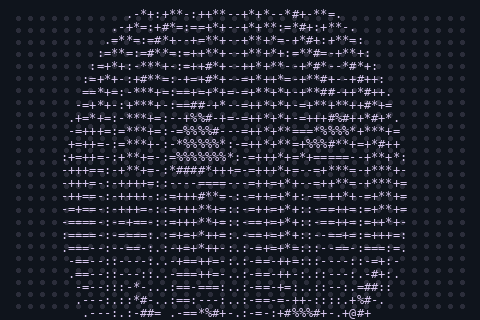
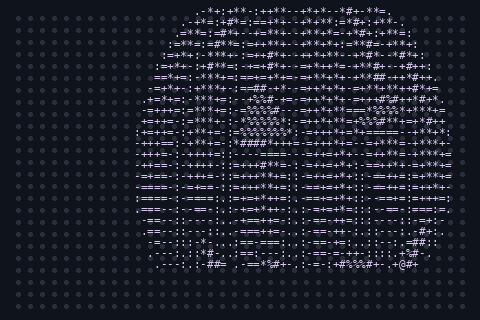
readme: svg strip panel, clay step images, no captions or filler

diff --git a/assets/make_strips.py b/assets/make_strips.py
@@ -77,8 +77,9 @@ def right_panel():
     img = Image.new("RGB", (W, H), NAVY)
     d = ImageDraw.Draw(img)
     font = ImageFont.truetype(
-        "/usr/share/fonts/truetype/dejavu/DejaVuSansMono.ttf", 12)
-    d.multiline_text((10, 6), txt, font=font, fill=LAV, spacing=1)
+        "/usr/share/fonts/truetype/dejavu/DejaVuSansMono.ttf", 11)
+    tw = d.textlength(txt.splitlines()[0], font=font)
+    d.multiline_text(((W - tw) / 2, 4), txt, font=font, fill=LAV, spacing=0)
     img = ben_day(img.convert("RGBA")).convert("RGB")
     out = os.path.join(HERE, "strip-ascii-480x320.webp")
     img.save(out, "WEBP", lossless=True, method=6)

diff --git a/readme.md b/readme.md
@@ -7,19 +7,14 @@ the rind with booleans and line the holes with glowing flesh, shade
 it flat-orange with shader nodes, trace it with grease pencil ink,
 then open the render in photocraft for vibrance, warmth, and a
 candlelit glow. six steps, two tracks per step (by hand in the
-interface, or in annotated python). this page is the map —
-[the tutorial](tutorial/tutorial.md) is the walk.
+interface, or in annotated python), full instructions in
+[the tutorial](tutorial/tutorial.md).
 
 <table>
   <tr>
-    <td width="33%"><img src="assets/strip-render-480x320.webp" width="100%" alt="graded render"></td>
+    <td width="33%"><img src="assets/pumpkin-flicker.svg" width="100%" alt="hand-drawn flickering pumpkin"></td>
     <td width="33%"><img src="assets/pumpkin-turntable-480x320.webp" width="100%" alt="pumpkin turning"></td>
     <td width="33%"><img src="assets/strip-ascii-480x320.webp" width="100%" alt="ascii pumpkin"></td>
-  </tr>
-  <tr>
-    <td align="center">the render, graded</td>
-    <td align="center">the model, turning</td>
-    <td align="center">the same, as text</td>
   </tr>
 </table>
 
@@ -33,38 +28,39 @@ interface, or in annotated python). this page is the map —
 
 <table>
   <tr>
-    <td width="180"><img src="tutorial/examples/01-body.png" width="170" alt="body"></td>
+    <td width="180"><img src="tutorial/examples/step-1-body.png" width="170" alt="body, clay render"></td>
     <td><b>1 · ribbed body</b> — start from a uv sphere, scale it squat, sink every other edge loop to carve 15 grooves, then solidify so the rind has real thickness. in code the same shape is one polar grid, and each vertex remembers whether it sits in a groove — step 4 shades with that memory.<br>
     <a href="tutorial/tutorial.md">tutorial step 1</a> · <a href="tutorial/examples/01-body.blend">example .blend</a></td>
   </tr>
   <tr>
-    <td><img src="tutorial/examples/02-stem.png" width="170" alt="stem"></td>
+    <td><img src="tutorial/examples/step-2-stem.png" width="170" alt="stem, clay render"></td>
     <td><b>2 · stem, twig, leaves</b> — draw a bezier hook, bevel it thick at the base and thin at the tip, ridge it like bark, leave the end open with a dark disc inside so it reads snapped. a thin twig and four leaves lying flat finish it.<br>
     <a href="tutorial/tutorial.md">tutorial step 2</a> · <a href="tutorial/examples/02-stem.blend">example .blend</a></td>
   </tr>
   <tr>
-    <td><img src="tutorial/examples/03-carved-face.png" width="170" alt="carved face"></td>
+    <td><img src="tutorial/examples/step-3-face.png" width="170" alt="carved face, clay render"></td>
     <td><b>3 · carve the face</b> — shape two triangles and a zigzag grin as flat cutters, boolean-difference them through the rind, then build a pale funnel inside each hole capped with amber emission. one small light placed inside the body sells the candle.<br>
     <a href="tutorial/tutorial.md">tutorial step 3</a> · <a href="tutorial/examples/03-carved-face.blend">example .blend</a></td>
   </tr>
   <tr>
-    <td><img src="assets/pumpkin-hero-960x640.webp" width="170" alt="shading"></td>
+    <td><img src="tutorial/examples/03-carved-face.png" width="170" alt="shaded pumpkin"></td>
     <td><b>4 · shading layers</b> — in the shader editor: a toon bsdf for flat color, the step-1 groove mask mixing lit orange into dark valley brown, two noise textures streaked over the top so it never looks like plastic, and an emission rim gated to the silhouette only. the tutorial wires it node by node.<br>
     <a href="tutorial/tutorial.md">tutorial step 4</a></td>
   </tr>
   <tr>
-    <td><img src="tutorial/examples/04-inked-final.png" width="170" alt="inked"></td>
+    <td><img src="tutorial/examples/04-inked-final.png" width="170" alt="inked pumpkin"></td>
     <td><b>5 · ink with grease pencil</b> — add a grease pencil stroke object with a line art modifier aimed at the pumpkin collection: it traces contour, crease, and intersection lines in near-black brown. render again on white with thicker lines and you get a printable drawing of your pumpkin.<br>
     <a href="tutorial/tutorial.md">tutorial step 5</a> · <a href="tutorial/examples/04-inked-final.blend">example .blend</a></td>
   </tr>
   <tr>
-    <td><img src="assets/pumpkin-framed-978x658.webp" width="170" alt="graded"></td>
+    <td><img src="assets/pumpkin-framed-978x658.webp" width="170" alt="graded pumpkin"></td>
     <td><b>6 · finish in photocraft</b> — photocraft is an open-source rust editor (layers, masks, real psd files, offline). open the render: vibrance +35, contrast +22, warm photo filter at 18%, then duplicate the layer, blur it, and screen-blend at 60% so highlights bloom. save a flat png to share and a layered <code>.psd</code> to keep editing. <code>post/post.sh</code> runs the identical five steps from the terminal.<br>
     <a href="tutorial/tutorial.md">tutorial step 6</a></td>
   </tr>
 </table>
 
-in a hurry? open `blender/scene.blend`, or rebuild it all:
+open `blender/scene.blend` to take the finished pumpkin apart, or
+rebuild it all:
 
 ```
 blender -b --factory-startup --python-exit-code 1 -P blender/build_pumpkin.py
@@ -83,49 +79,3 @@ variations (`-- --toon`, `-- --preview`, `-- --stage=1`…`4`): tutorial,
 | `post/`                | step-6 grade: script, images, layered psd      |
 | `assets/`              | images on this page + their makers             |
 | `refs/`                | look-target drawings (tutorial step 3)         |
-
-<p align="center">
-  <img src="assets/pumpkin-flicker.svg" width="320" alt="flickering jack-o-lantern"><br>
-  hand-drawn svg — open it in a browser, watch the candlelight.
-</p>
-
-```
-                                   .:===.
-                                   .====
-                          .:..:-. .-----:: .-:..:.
-                       .-+==+**=-=*#*-:+*#*-=**+==+=.
-                     :=*+-=**+-:+=**+--+**+*--***=-**=:.
-                   :=**=.=#*+=:=+=**+--+**+**:=**#=:+**=:
-                 .-+**=.=#**+:-+=+**+--++*++*=:+**#=:=**+=.
-                :=+*+=:-#**+-:=+=***+--++**+*+:-+**#=:=**++:
-               :=+*+=:-***+=:-=+=#**+--=+**+**-:+**#*=:+*#++-
-              -=+*+=::+#**+-:-+++#**+--=+**+**+:=+**#*--+*#++-
-             :==**+-:=#***+::=+=*#**+--=++*++*+--+***#+-=**#++-
-            .+=**+=:-*#**+=:-=+-+#**+--=++**+*+=-++**#*=--**#+*.
-            +=+*+=-:=****+-:-+=*==**+--=++**+**=:=+***#==*=*#*++
-           -+=**+=:-+***+=-:===%%-=*+--=+++*+**+-=+***+*#*=**#+*-
-          .+=+*+=-:-****+=::=-#%%#-=*--==++*+**+--+*++#%%*++*#*=*.
-          -+=*++=::=***++-:--+%%%%#-==:==++*+**+==+=*%%%%*+=**#+*=
-          +=+++=-:-+***+=-:--%%%%%%#----=++*++*+=-=#%%%%%#*=+***+*
-         :+=+++=-:-****+=--:*%%%%%%%*::-=++*++**=+%%##*++==-+**#=*:
-         -+=++==-:=***++=-:=%%%%%%%%%*:-=+++++*-=+===-====--+**#+*=
-         ==+++==::=***+=-::*##%###**++==-+++++*==--=++**#+=-+****++
-         +=++==-:-=++++=-::-------==-----+++++**+--==+++*+=:++***++
-         +=++==-:-=++++=-:-==+=***++=:::==+++=**+-:==+++*+=:=+***++
-         +=+===-:-=++++=-::=++=****+=::--=+++=**+-:-==++*+=:=++**++
-         +=+===-:-=+++=-:.:=++=****+=:::-=++==**+-:--==+*+=:=++**++
-         ==+==--:-=++==-:.:=++=***++-:::-=++==**+-:--===++=:=+++*++
-         -====--:--====-:.:-=+=***++-:.:-==+==*++::---==++=:=++++==
-         :====--::-===--:.:-=+=+*++=-:.:-==+==*+=:::---===-:==++:=-
-         .====--::--==-::.:-=+=++++=-:.:-=====*+=:.::---==::===-:=.
-          -===--::-::--::.:-=+=++++=:..:-===-=*+-:.::-----::--*+:-
-          :-==--::-:=--::..-=+-=++=-:..:-===-=+=-:.:::---:.:-*%--:
-           --=--:.::=*:::..:=+--++=-:..:--==-=+=:...::---:.-#%+::
-           .-=--:::-:##-...:-+=-=---:..:--==-==-=-...::::.+##*:..
-            :----:.::=%#=..:-=-:-++-. .:--==---*%%#+-:::.=%##- .
-             :---:.:::###=..:-=*%%%%#+:::----+%%%%%@%+=.-%##+
-              :--::.::+##*+**+#**%%%%%%#=--+#%%%%%#*+**..:::
-               :-::..:-###**:.-**+*%%%##*===+#%%#++##=:
-                :-::..:##*: .-::+#*+**+=---::=+*+##=. .  .
-                 :::...==  ..:=- -*#*=:.:---  .=*=....
-```
